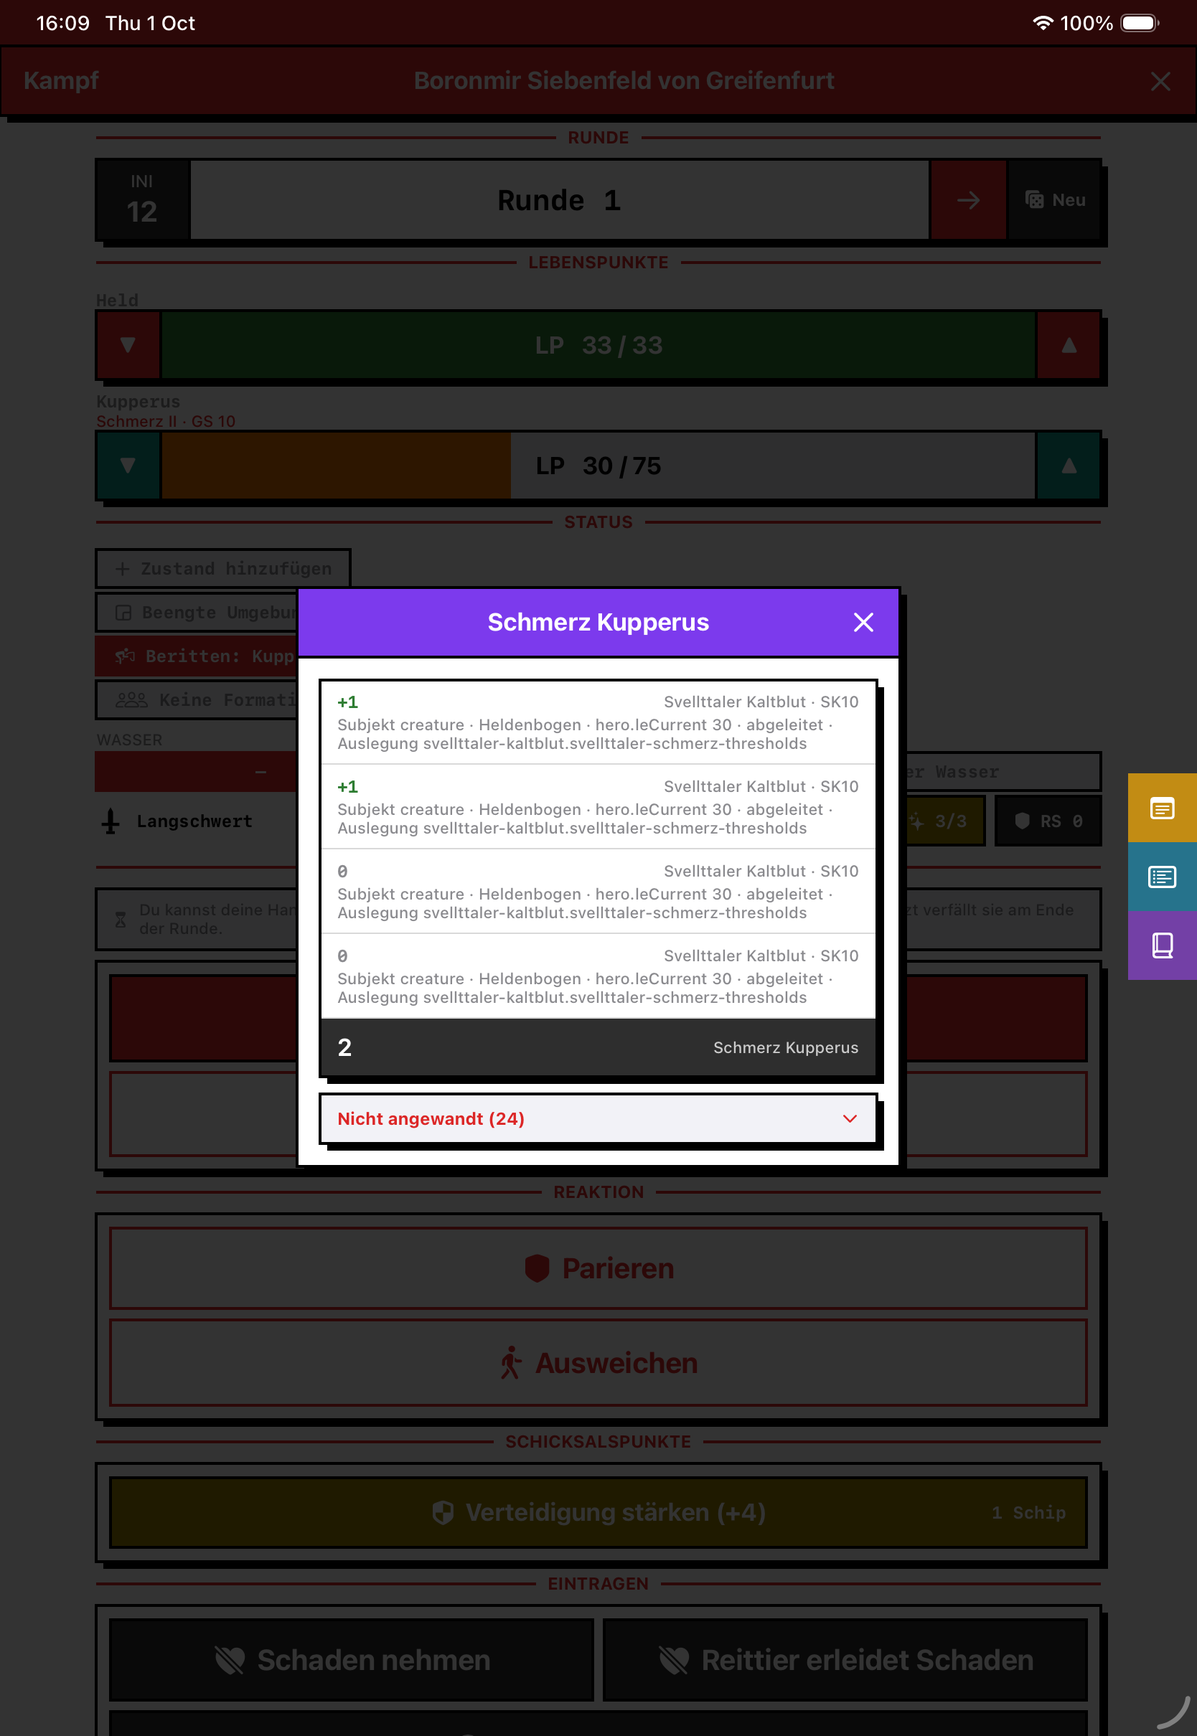
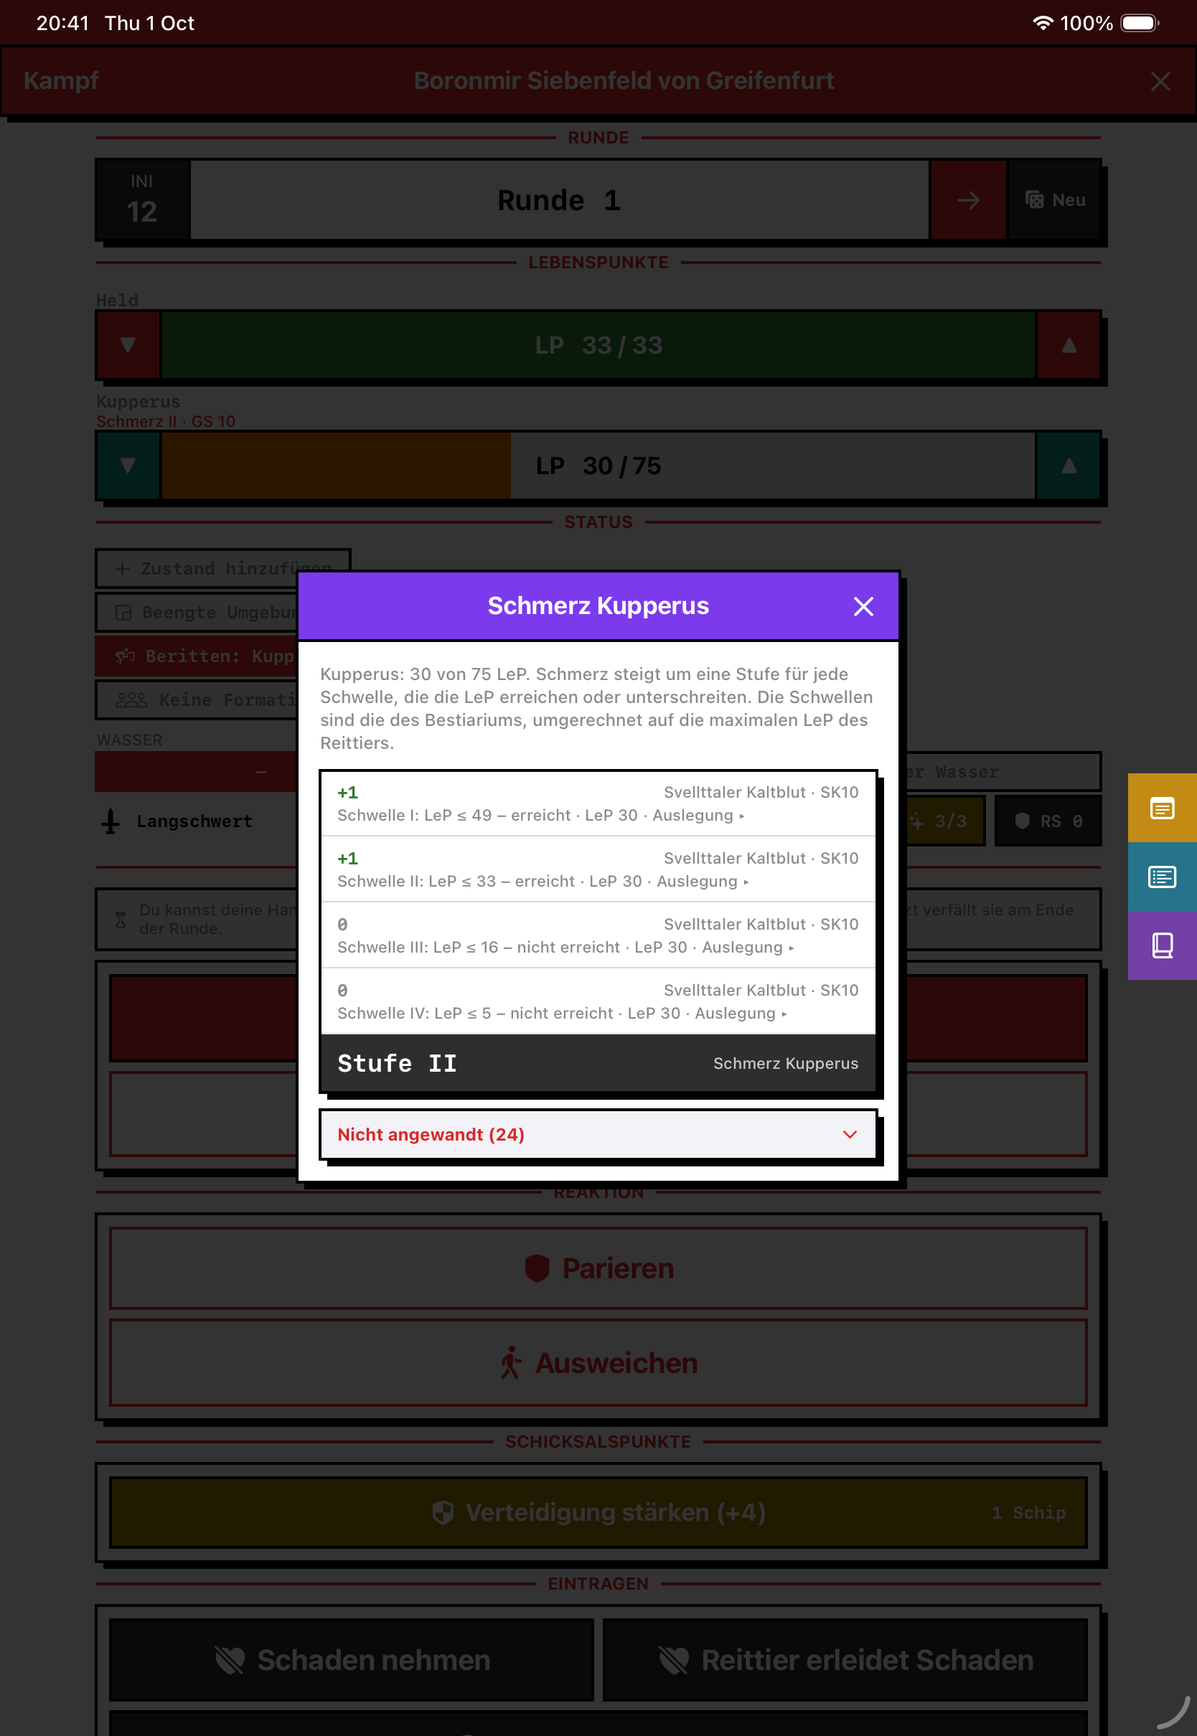
ui: the Schmerz breakdown names each threshold, the Stufe and the mount's LeP (#51)
Claude-Session: https://claude.ai/code/session_01XqN782arHHEks4nWYuMR9X

Changed region(s): [[0.2494, 0.3099, 0.7482, 0.7128], [0.0312, 0.0, 0.0624, 0.031]]

diff --git a/Hesindion/Theme/Strings.swift b/Hesindion/Theme/Strings.swift
@@ -243,6 +243,7 @@ enum DSAStrings {
         "mount.schmerz.statusShift":  "Schmerz %@ (Zähes Tier: as %@) · GS %d",
         "mount.schmerz.asNone":       "none",
         "mount.schmerz.noThresholds": "Schmerz %@: thresholds unknown (no Bestiarium entry)",
+        "mount.schmerz.breakdownIntro": "%@: %d of %d LeP. Schmerz rises by one level for each threshold the LeP reach or fall below. The thresholds are the Bestiarium's, scaled to the mount's max LeP.",
         "mount.blocked.handlungsunfaehig": "%@: Schmerz IV — incapacitated",
         "mount.at.schmerzNote":       "Schmerz %d",
         "mounted":              "Mounted",
@@ -865,7 +866,16 @@ enum DSAStrings {
         "reason.rulesetOff":            "Focus rule off",
         "reason.outOfContext":          "not in this situation",
         "breakdown.notApplied":         "Not applied (%d)",
-        "breakdown.auslegung":          "Ruling %@",
+        "breakdown.auslegung":          "Ruling ▸",
+        "breakdown.auslegung.open":     "Ruling: %@",
+        "breakdown.step":               "Threshold %@: %@ ≤ %d – %@",
+        "breakdown.step.value":         "value",
+        "breakdown.step.reached":       "reached",
+        "breakdown.step.notReached":    "not reached",
+        "breakdown.levelAs":            "Level %@ acts as %@",
+        "breakdown.level.total":        "Level %@",
+        "breakdown.level.totalHas":     "Level %@ (has %@)",
+        "breakdown.level.none":         "none",
         "fact.species.le":              "Species base LE",
         "fact.hero.purchased.le":       "purchased LE",
         "fact.level":                   "level",
@@ -878,6 +888,7 @@ enum DSAStrings {
         "fact.mount.schmerz":           "Schmerz mount",
         "fact.mount.handlungsunfaehig": "mount incapacitated",
         "fact.subject":                 "subject",
+        "fact.hero.leCurrent":          "LeP",
         // "Vor der Probe" (sheet cut-over design §6)
         "vorDerProbe.label":            "Before the check",
         "vorDerProbe.summary":          "Belastung %@: %d · %@",
@@ -1111,6 +1122,7 @@ enum DSAStrings {
         "mount.schmerz.statusShift":  "Schmerz %@ (Zähes Tier: wie %@) · GS %d",
         "mount.schmerz.asNone":       "keine",
         "mount.schmerz.noThresholds": "Schmerz %@: Schwellen unbekannt (kein Bestiarium-Eintrag)",
+        "mount.schmerz.breakdownIntro": "%@: %d von %d LeP. Schmerz steigt um eine Stufe für jede Schwelle, die die LeP erreichen oder unterschreiten. Die Schwellen sind die des Bestiariums, umgerechnet auf die maximalen LeP des Reittiers.",
         "mount.blocked.handlungsunfaehig": "%@: Schmerz IV — handlungsunfähig",
         "mount.at.schmerzNote":       "Schmerz %d",
         "mounted":              "Beritten",
@@ -1943,7 +1955,16 @@ enum DSAStrings {
         "reason.rulesetOff":            "Fokusregel aus",
         "reason.outOfContext":          "nicht in dieser Lage",
         "breakdown.notApplied":         "Nicht angewandt (%d)",
-        "breakdown.auslegung":          "Auslegung %@",
+        "breakdown.auslegung":          "Auslegung ▸",
+        "breakdown.auslegung.open":     "Auslegung: %@",
+        "breakdown.step":               "Schwelle %@: %@ ≤ %d – %@",
+        "breakdown.step.value":         "Wert",
+        "breakdown.step.reached":       "erreicht",
+        "breakdown.step.notReached":    "nicht erreicht",
+        "breakdown.levelAs":            "Stufe %@ wirkt wie %@",
+        "breakdown.level.total":        "Stufe %@",
+        "breakdown.level.totalHas":     "Stufe %@ (hat %@)",
+        "breakdown.level.none":         "keine",
         "fact.species.le":              "LE-Grundwert (Spezies)",
         "fact.hero.purchased.le":       "gekaufte LE",
         "fact.level":                   "Stufe",
@@ -1956,6 +1977,7 @@ enum DSAStrings {
         "fact.mount.schmerz":           "Schmerz Reittier",
         "fact.mount.handlungsunfaehig": "Reittier handlungsunfähig",
         "fact.subject":                 "Subjekt",
+        "fact.hero.leCurrent":          "LeP",
         // "Vor der Probe" (sheet cut-over design §6)
         "vorDerProbe.label":            "Vor der Probe",
         "vorDerProbe.summary":          "Belastung %@: %d · %@",

diff --git a/HesindionTests/BreakdownTextTests.swift b/HesindionTests/BreakdownTextTests.swift
@@ -1,0 +1,77 @@
+import XCTest
+import SwiftData
+import RulesEngine
+@testable import Hesindion
+
+/// Issue #51: what `BreakdownSheet` prints for a Stufe's breakdown — each threshold with its value
+/// and whether it is reached, Zähes Tier's shift in plain words, and the Stufe as the result.
+@MainActor
+final class BreakdownTextTests: XCTestCase {
+    private var context: ModelContext!
+    private var book: RuleBook!
+
+    override func setUpWithError() throws {
+        guard let store = RulesEngineStore.shared else { throw XCTSkip("rules.json unavailable") }
+        book = store.engine.book
+        context = ModelContext(try TestData.makeContainer())
+    }
+
+    /// Kupperus with 137 max LeP, as in `MountValuesTests`.
+    private func schmerz(le: Int, advantages: [String] = ["Zähes Tier"]) throws -> Breakdown {
+        let pet = Pet(
+            petId: "PET_1", name: "Kupperus", size: 1.9, type: "Svellttaler Kaltblut",
+            attributes: PetAttributes(mu: 15, kl: 10, inValue: 12, ch: 12, ff: 8, ge: 15, ko: 26, kk: 28),
+            lifeEnergy: 137, currentLifeEnergy: le, spirit: 0, toughness: 0, initiative: "15+1W6", speed: 15,
+            attack: "Tritt", damage: "1W6+8", reach: "mittel", actions: 1,
+            talents: "", skills: "", notes: "")
+        pet.advantages = advantages
+        context.insert(pet)
+        return try XCTUnwrap(MountValues.of(pet)).schmerzValue.breakdown
+    }
+
+    private func details(_ b: Breakdown) -> [String?] {
+        BreakdownText.details(for: b, book: book, openRuling: nil)
+    }
+
+    func testEachThresholdNamesItsStufeItsLePAndWhetherItIsReached() throws {
+        let d = details(try schmerz(le: 60))
+        let reached = L("breakdown.step.reached"), notReached = L("breakdown.step.notReached")
+        XCTAssertEqual(d.count, 5)
+        XCTAssertTrue(d[0]!.hasPrefix(String(format: L("breakdown.step"), "I", "LeP", 89, reached)), d[0]!)
+        XCTAssertTrue(d[1]!.hasPrefix(String(format: L("breakdown.step"), "II", "LeP", 60, reached)), d[1]!)
+        XCTAssertTrue(d[2]!.hasPrefix(String(format: L("breakdown.step"), "III", "LeP", 29, notReached)), d[2]!)
+        XCTAssertTrue(d[3]!.hasPrefix(String(format: L("breakdown.step"), "IV", "LeP", 5, notReached)), d[3]!)
+    }
+
+    func testTheFactsReadAsLePAndHideTheSubject() throws {
+        let first = try XCTUnwrap(details(try schmerz(le: 60))[0])
+        XCTAssertTrue(first.contains("LeP 60"), first)
+        XCTAssertFalse(first.contains("hero.leCurrent"), first)
+        XCTAssertFalse(first.contains(L("fact.subject")), first)
+        XCTAssertFalse(first.contains(L("owner.derived")), first)
+    }
+
+    func testTheRulingMarkHidesItsIdUntilOpened() throws {
+        let b = try schmerz(le: 60)
+        let shut = try XCTUnwrap(details(b)[0])
+        XCTAssertTrue(shut.hasSuffix(L("breakdown.auslegung")), shut)
+        XCTAssertFalse(shut.contains("svellttaler-schmerz-thresholds"), shut)
+        let ruling = "svellttaler-kaltblut.svellttaler-schmerz-thresholds"
+        let open = try XCTUnwrap(BreakdownText.details(for: b, book: book, openRuling: ruling)[0])
+        XCTAssertTrue(open.hasSuffix(String(format: L("breakdown.auslegung.open"), book.rulingAnswer(ruling)!)), open)
+    }
+
+    func testZaehesTiersLineSaysWhichStufeActsAsWhich() throws {
+        let d = details(try schmerz(le: 60))
+        XCTAssertTrue(d[4]!.hasPrefix(String(format: L("breakdown.levelAs"), "II", "I")), d[4]!)
+    }
+
+    func testTheResultIsTheStufeActedAtAndTheStufeHad() throws {
+        XCTAssertEqual(BreakdownText.total(of: try schmerz(le: 60)),
+                       String(format: L("breakdown.level.totalHas"), "I", "II"))
+        XCTAssertEqual(BreakdownText.total(of: try schmerz(le: 60, advantages: [])),
+                       String(format: L("breakdown.level.total"), "II"))
+        XCTAssertEqual(BreakdownText.total(of: try schmerz(le: 137, advantages: [])),
+                       String(format: L("breakdown.level.total"), L("breakdown.level.none")))
+    }
+}

diff --git a/Hesindion/Views/BreakdownSheet.swift b/Hesindion/Views/BreakdownSheet.swift
@@ -10,6 +10,9 @@ struct BreakdownSheet: View {
     let title: String
     let value: SheetValue
     let book: RuleBook
+    /// A sentence above the lines that says what the value is about (issue #51: the mount's LeP
+    /// and how its thresholds count). nil for none.
+    var intro: String? = nil
     var onDismiss: () -> Void
     /// The one Auslegung mark currently expanded to its answer, at most one at a time (a ruling's
     /// qualified id).
@@ -27,9 +30,16 @@ struct BreakdownSheet: View {
             onClose: onDismiss,
             scrolls: true
         ) {
+            if let intro {
+                Text(intro)
+                    .font(.dsaBody(.caption))
+                    .foregroundStyle(.secondary)
+                    .frame(maxWidth: .infinity, alignment: .leading)
+                    .accessibilityIdentifier("breakdown.intro")
+            }
             CombatBreakdownBox(
                 rows: rows,
-                totalValue: value.result.map(String.init) ?? "–",
+                totalValue: BreakdownText.total(of: value.breakdown),
                 totalSource: title,
                 totalIdentifier: "breakdown.result"
             )
@@ -38,34 +48,19 @@ struct BreakdownSheet: View {
     }
 
     /// One `BreakdownRow` per shown line, in order: the value signed (the base parts too), the
-    /// source `Rule name · clause`, the facts it read and its Auslegung mark (if any) as the
-    /// row's `detail`, tappable to expand the ruling's answer.
+    /// source `Rule name · clause`, and as the row's `detail` what `BreakdownText` says of it — a
+    /// threshold, the facts it read, its Auslegung mark (tappable to expand the ruling's answer).
     private var rows: [BreakdownRow] {
-        value.breakdown.shownLines.enumerated().map { i, line in
+        let details = BreakdownText.details(for: value.breakdown, book: book, openRuling: openRuling)
+        return value.breakdown.shownLines.enumerated().map { i, line in
             var row = BreakdownRow.signed(line.value, origin(line))
-            row.detail = detail(for: line)
+            row.detail = details[i]
             row.identifierOverride = "breakdown.line.\(i)"
             if let ruling = line.ruling {
                 row.onTapDetail = { openRuling = (openRuling == ruling ? nil : ruling) }
             }
             return row
         }
-    }
-
-    /// The facts a line read (`KO 13 · Heldenbogen`) and, when it rests on a ruling, the Auslegung
-    /// mark — expanded to the ruling's decided answer while it is the open one.
-    private func detail(for line: Line) -> String? {
-        var parts = line.facts.map {
-            "\(FactLabel.label($0.name, book: book)) \($0.value.display) · \(L("owner.\($0.owner.rawValue)"))"
-        }
-        if let ruling = line.ruling {
-            var mark = String(format: L("breakdown.auslegung"), ruling)
-            if openRuling == ruling, let answer = book.rulingAnswer(ruling) {
-                mark += ": \(answer)"
-            }
-            parts.append(mark)
-        }
-        return parts.isEmpty ? nil : parts.joined(separator: " · ")
     }
 
     /// A line's origin, its clause id, and the rules it rests `via` (a useLevel, a replace); a
@@ -108,18 +103,5 @@ struct BreakdownSheet: View {
         .padding(.vertical, 8)
         .dsaRowDivider()
         .accessibilityIdentifier(isLast ? "breakdown.notApplied.lastRow" : "")
-    }
-}
-
-private extension JSONValue {
-    var display: String {
-        switch self {
-        case .int(let i): "\(i)"
-        case .double(let d): "\(d)"
-        case .string(let s): s
-        case .bool(let b): L(b ? "yes" : "no")
-        case .null: "–"
-        default: "…"
-        }
     }
 }

diff --git a/Hesindion/Views/BreakdownText.swift b/Hesindion/Views/BreakdownText.swift
@@ -1,0 +1,70 @@
+import Foundation
+import RulesEngine
+
+/// The words `BreakdownSheet` prints under each line and in the result bar (issue #51): a
+/// threshold says which Stufe it is, its value and whether it is reached; a `levelAs` line says
+/// which Stufe acts as which; a Stufe's result is a Stufe, not a bare number. A label lookup
+/// only — the numbers are the engine's.
+enum BreakdownText {
+    /// Facts a line reads only to gate a rule (`subject: creature`), which say nothing to a player.
+    private static let hiddenFacts: Set<String> = ["subject"]
+
+    /// One detail per shown line, in `shownLines` order (nil: the row has none).
+    static func details(for breakdown: Breakdown, book: RuleBook, openRuling: String?) -> [String?] {
+        let isLevel = breakdown.query.name == "level"
+        var step = 0
+        return breakdown.shownLines.map { line in
+            var parts: [String] = []
+            if let threshold = line.threshold {
+                step += 1
+                let what = facts(of: line).first.map { FactLabel.label($0.name, book: book) } ?? L("breakdown.step.value")
+                let reached = L(line.value > 0 ? "breakdown.step.reached" : "breakdown.step.notReached")
+                parts.append(String(format: L("breakdown.step"), isLevel ? StateCatalog.roman(step) : "\(step)",
+                                    what, threshold, reached))
+            }
+            if line.kind == .levelAs, let was = line.was, let now = line.now {
+                parts.append(String(format: L("breakdown.levelAs"), stufe(was), stufe(now)))
+            } else {
+                parts += facts(of: line).map { fact in
+                    let label = "\(FactLabel.label(fact.name, book: book)) \(display(fact.value))"
+                    return fact.owner == .derived ? label : "\(label) · \(L("owner.\(fact.owner.rawValue)"))"
+                }
+            }
+            if let ruling = line.ruling {
+                let answer = openRuling == ruling ? (book.rulingAnswer(ruling) ?? ruling) : nil
+                parts.append(answer.map { String(format: L("breakdown.auslegung.open"), $0) } ?? L("breakdown.auslegung"))
+            }
+            return parts.isEmpty ? nil : parts.joined(separator: " · ")
+        }
+    }
+
+    /// The result bar's value: for `level(rule:)` the Stufe acted at, and the Stufe had when a
+    /// `levelAs` line moved it; else the number.
+    static func total(of breakdown: Breakdown) -> String {
+        guard let result = breakdown.result else { return "–" }
+        guard breakdown.query.name == "level" else { return "\(result)" }
+        if let had = breakdown.base?.value, had != result {
+            return String(format: L("breakdown.level.totalHas"), stufe(result), stufe(had))
+        }
+        return String(format: L("breakdown.level.total"), stufe(result))
+    }
+
+    private static func facts(of line: Line) -> [FactUse] {
+        line.facts.filter { !hiddenFacts.contains($0.name) }
+    }
+
+    private static func stufe(_ level: Int) -> String {
+        level > 0 ? StateCatalog.roman(level) : L("breakdown.level.none")
+    }
+
+    private static func display(_ value: JSONValue) -> String {
+        switch value {
+        case .int(let i): "\(i)"
+        case .double(let d): "\(d)"
+        case .string(let s): s
+        case .bool(let b): L(b ? "yes" : "no")
+        case .null: "–"
+        default: "…"
+        }
+    }
+}

diff --git a/Hesindion/Views/CombatRootView.swift b/Hesindion/Views/CombatRootView.swift
@@ -34,7 +34,7 @@ struct CombatRootView: View {
     @State private var showFormationPicker = false
     @State private var stateDetail: StateDefinition?
     /// The mount's name and Stufe of Schmerz whose breakdown is open (issue #51).
-    @State private var mountSchmerz: (String, SheetValue)?
+    @State private var mountSchmerz: (name: String, value: SheetValue, intro: String)?
     /// The Blutend probe whose modal is up, with the result it has so far.
     @State private var bleedingSession: BleedingProbeSession? = nil
     /// The action a handlungsunfähig hero has reached for, waiting on the
@@ -311,7 +311,9 @@ struct CombatRootView: View {
                         // Issue #51: a tap opens the Stufe's breakdown. Without a breed rule
                         // there is none; the line itself says why.
                         if values.hasBreedRule {
-                            Button { mountSchmerz = (mount.name, values.schmerzValue) } label: { line }
+                            Button {
+                                mountSchmerz = (mount.name, values.schmerzValue, values.schmerzIntro(name: mount.name))
+                            } label: { line }
                                 .buttonStyle(.plain)
                                 .accessibilityIdentifier("combat.mount.schmerz")
                         } else {
@@ -961,8 +963,9 @@ struct CombatRootView: View {
             if let def = stateDetail {
                 StateDetailSheet(hero: hero, def: def) { stateDetail = nil }
             }
-            if let (name, value) = mountSchmerz, let book = RulesEngineStore.shared?.engine.book {
-                BreakdownSheet(title: "Schmerz \(name)", value: value, book: book) { mountSchmerz = nil }
+            if let item = mountSchmerz, let book = RulesEngineStore.shared?.engine.book {
+                BreakdownSheet(title: "Schmerz \(item.name)", value: item.value, book: book,
+                               intro: item.intro) { mountSchmerz = nil }
             }
             if let request = permissionRequest {
                 let spent = request.reason == .actionSpent

diff --git a/Hesindion/Views/HeroDetailView.swift b/Hesindion/Views/HeroDetailView.swift
@@ -8,6 +8,7 @@ private struct BreakdownItem: Identifiable {
     let id = UUID()
     let title: String
     let value: SheetValue
+    var intro: String? = nil
 }
 
 // MARK: - HeroDetailView
@@ -177,7 +178,7 @@ struct HeroDetailView: View {
             }
 
             if let item = breakdown, let book = RulesEngineStore.shared?.engine.book {
-                BreakdownSheet(title: item.title, value: item.value, book: book) { breakdown = nil }
+                BreakdownSheet(title: item.title, value: item.value, book: book, intro: item.intro) { breakdown = nil }
             }
 
             if showStatePicker {
@@ -1228,7 +1229,8 @@ struct HeroDetailView: View {
                                     // there is none; the line itself says why.
                                     if v.hasBreedRule {
                                         Button {
-                                            breakdown = BreakdownItem(title: "Schmerz \(pet.name)", value: v.schmerzValue)
+                                            breakdown = BreakdownItem(title: "Schmerz \(pet.name)", value: v.schmerzValue,
+                                                                      intro: v.schmerzIntro(name: pet.name))
                                         } label: {
                                             Text(status).font(.dsaBody(.caption2))
                                         }

diff --git a/Hesindion/RulesEngine/MountValues.swift b/Hesindion/RulesEngine/MountValues.swift
@@ -45,6 +45,11 @@ final class MountValues {
         sheet.attacks[attack] == nil ? nil : value("at(with: \(attack))")
     }
 
+    /// The sentence above `schmerzValue`'s breakdown: the mount's LeP, and how its thresholds count.
+    func schmerzIntro(name: String) -> String {
+        String(format: L("mount.schmerz.breakdownIntro"), name, sheet.leCurrent, sheet.leMax)
+    }
+
     /// The root's line under the mount's name: its Stufe and current GS, or that its thresholds
     /// are unknown (ADR-0018: a rule that cannot apply says why). nil when nothing is wrong.
     func statusText(name: String) -> String? {

diff --git a/HesindionUITests/SheetBreakdownTests.swift b/HesindionUITests/SheetBreakdownTests.swift
@@ -159,6 +159,8 @@ final class SheetBreakdownTests: XCTestCase {
             "The breakdown sheet did not open"
         )
         XCTAssertTrue(app.staticTexts["Schmerz Kupperus"].exists, "The breakdown is not the mount's Schmerz")
+        XCTAssertTrue(app.staticTexts["breakdown.intro"].exists, "Nothing says how the thresholds count")
+        XCTAssertEqual(app.staticTexts["breakdown.result"].label, "Stufe II", "The result is not the Stufe")
         XCTAssertTrue(
             app.descendants(matching: .any)["breakdown.line.0"].exists,
             "The breakdown has no lines"

diff --git a/Hesindion/RulesEngine/FactLabel.swift b/Hesindion/RulesEngine/FactLabel.swift
@@ -48,5 +48,6 @@ enum FactLabel {
         "mount.schmerz": "fact.mount.schmerz",
         "mount.handlungsunfaehig": "fact.mount.handlungsunfaehig",
         "subject": "fact.subject",
+        "hero.leCurrent": "fact.hero.leCurrent",
     ]
 }
